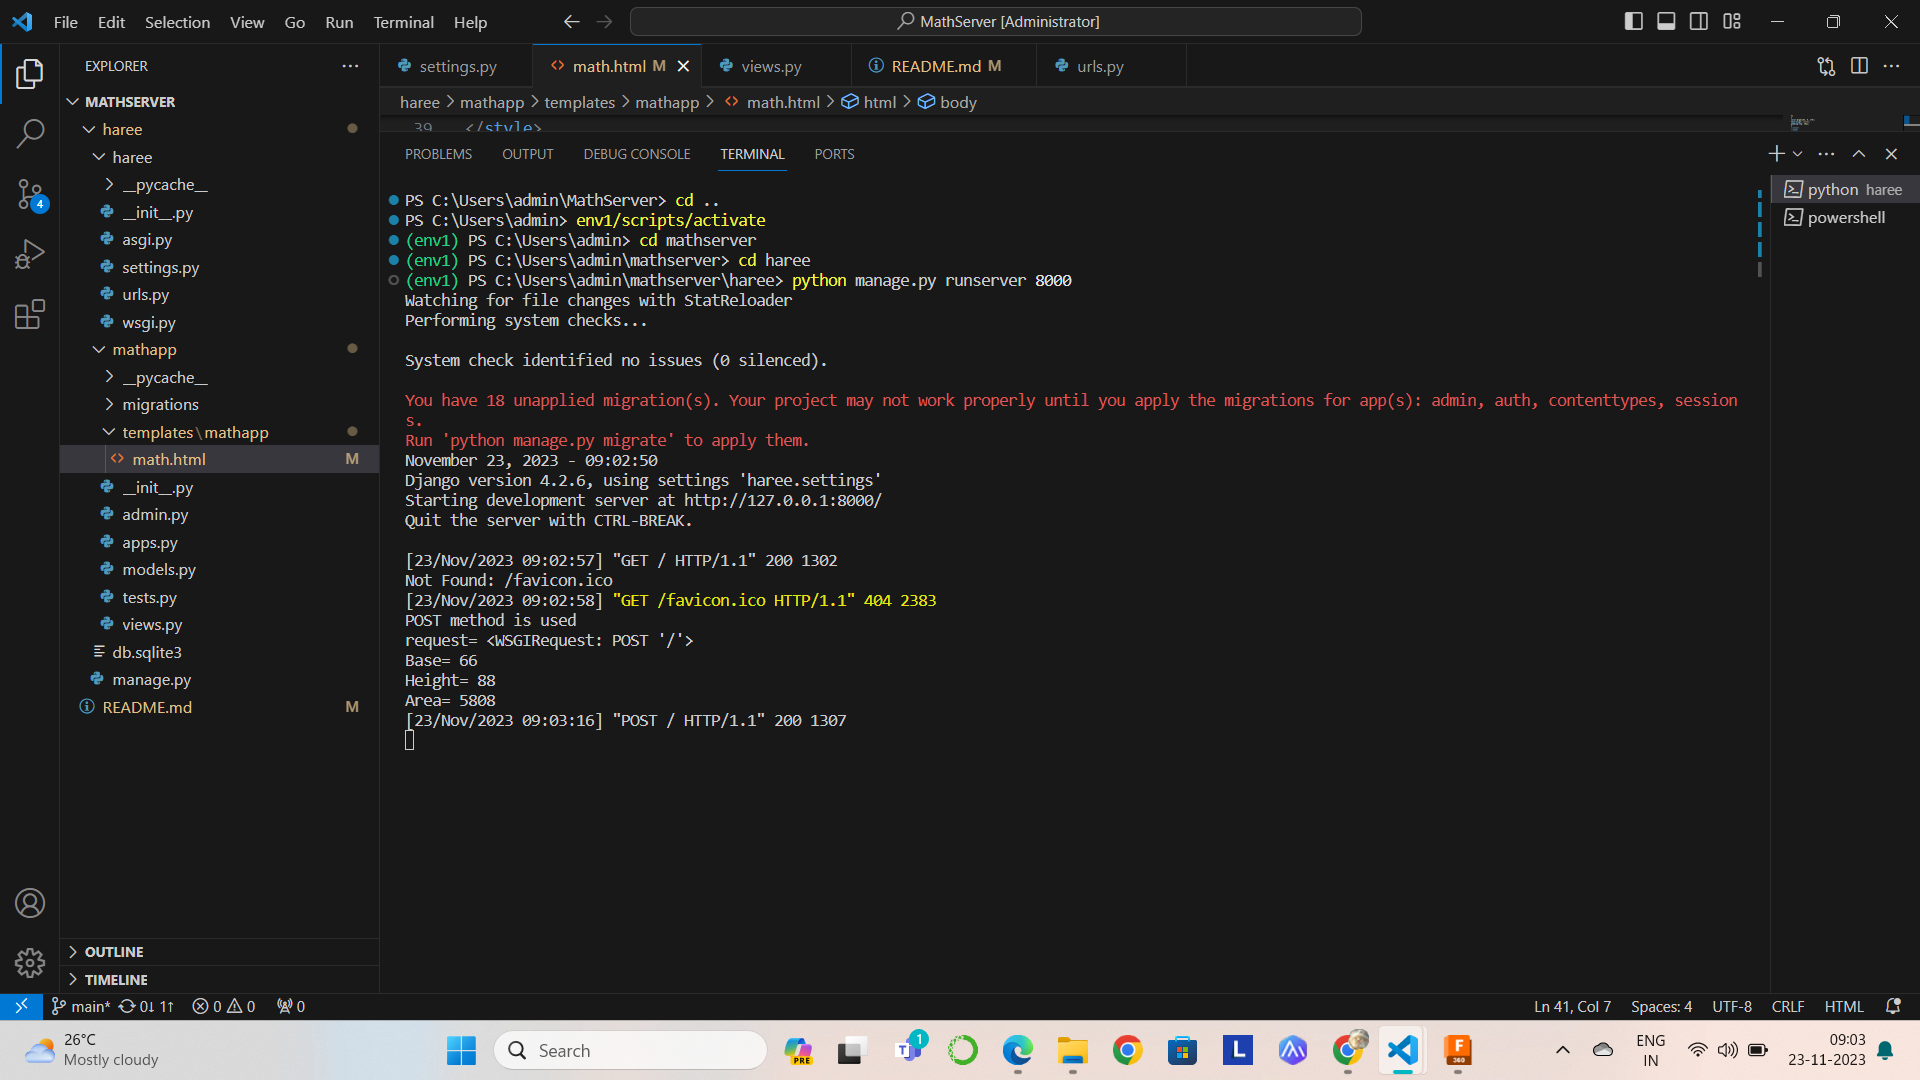
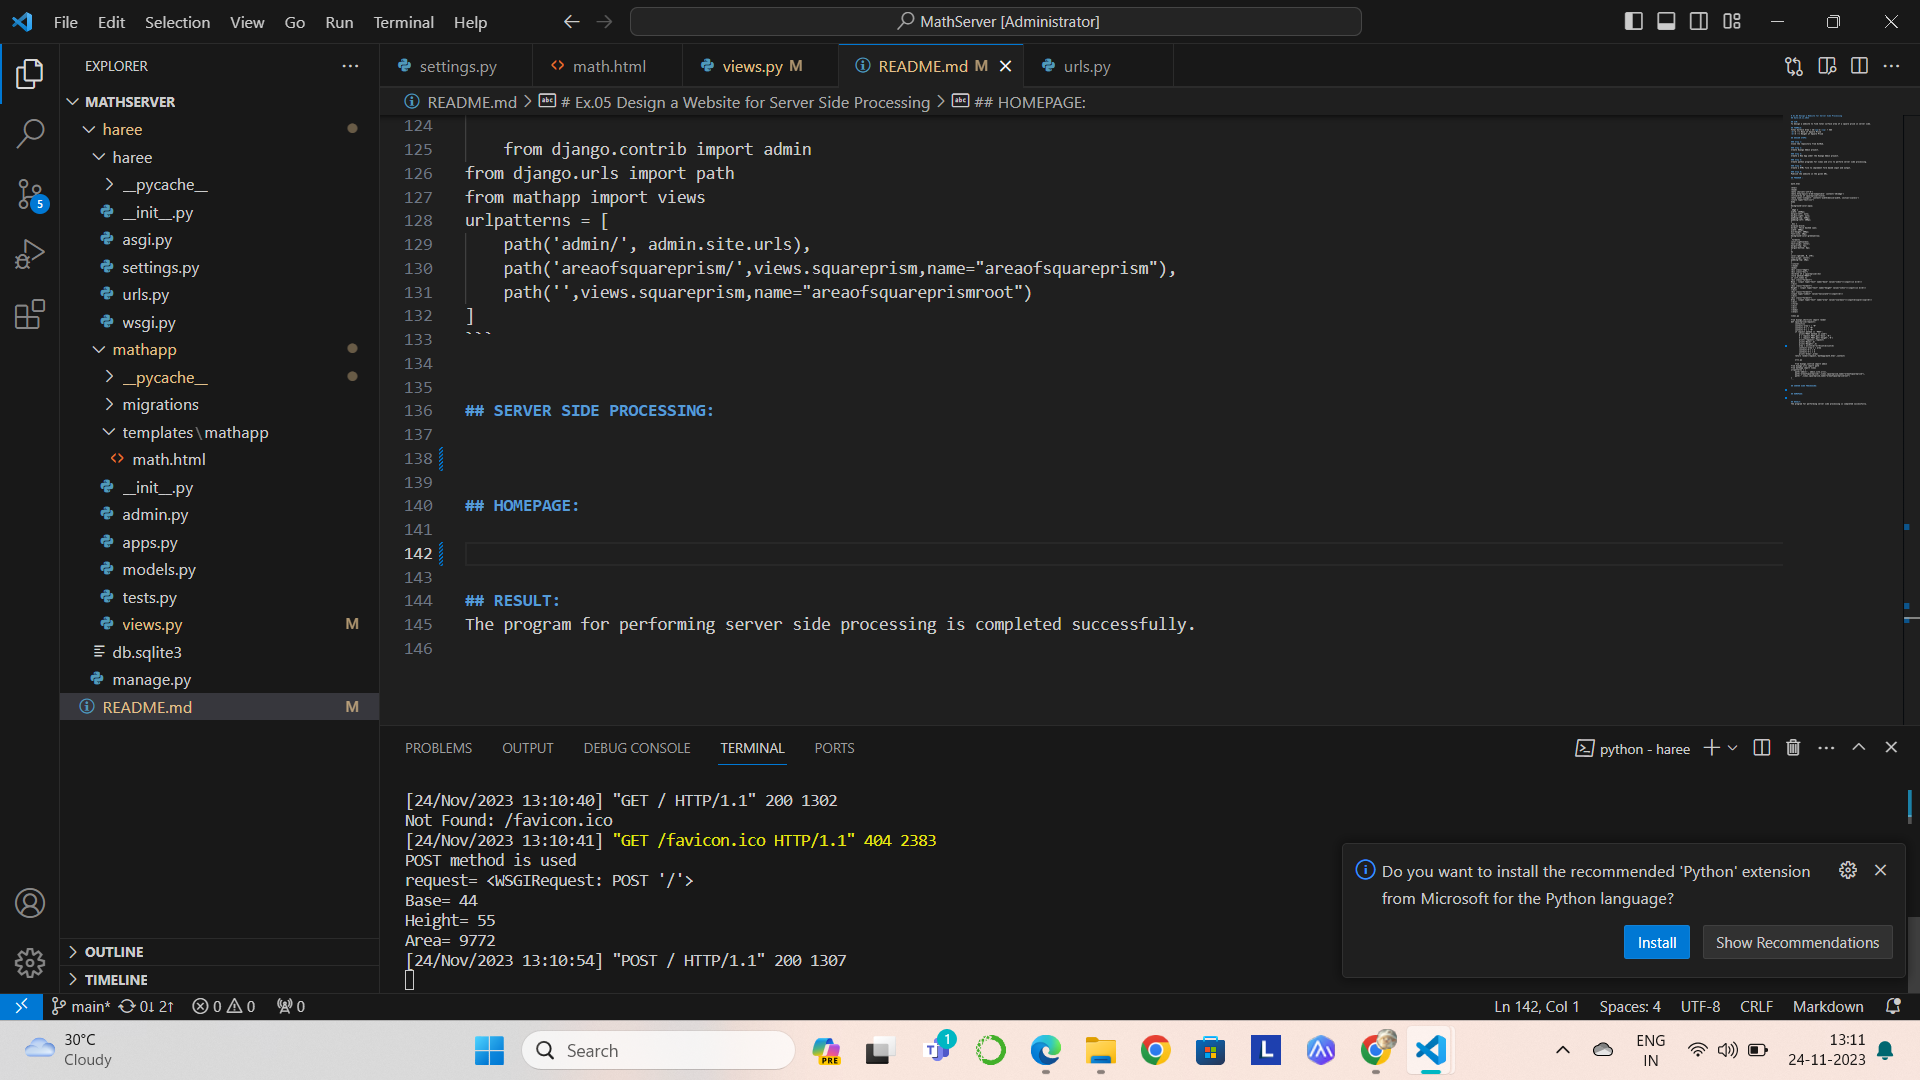
Success

diff --git a/haree/mathapp/views.py b/haree/mathapp/views.py
@@ -11,7 +11,7 @@ def squareprism(request):
         print('request=',request)
         print('Base=',b)
         print('Height=',h)
-        area = int(b) * int(h)
+        area = 2*(int(b)^2)+4*int(b)*int(h)
         context['area'] = area
         context['b'] = b
         context['h'] = h

diff --git a/README.md b/README.md
@@ -113,7 +113,7 @@ def squareprism(request):
         print('request=',request)
         print('Base=',b)
         print('Height=',h)
-        area = int(b) * int(h)
+        area = 2*(int(b)^2)+4*int(b)*int(h)
         context['area'] = area
         context['b'] = b
         context['h'] = h
@@ -134,12 +134,12 @@ urlpatterns = [
 
 
 ## SERVER SIDE PROCESSING:
-
 ![Alt text](sideprocessing.png)
 
-## HOMEPAGE:
 
+## HOMEPAGE:
 ![Alt text](squareprism.png)
+
 
 ## RESULT:
 The program for performing server side processing is completed successfully.
